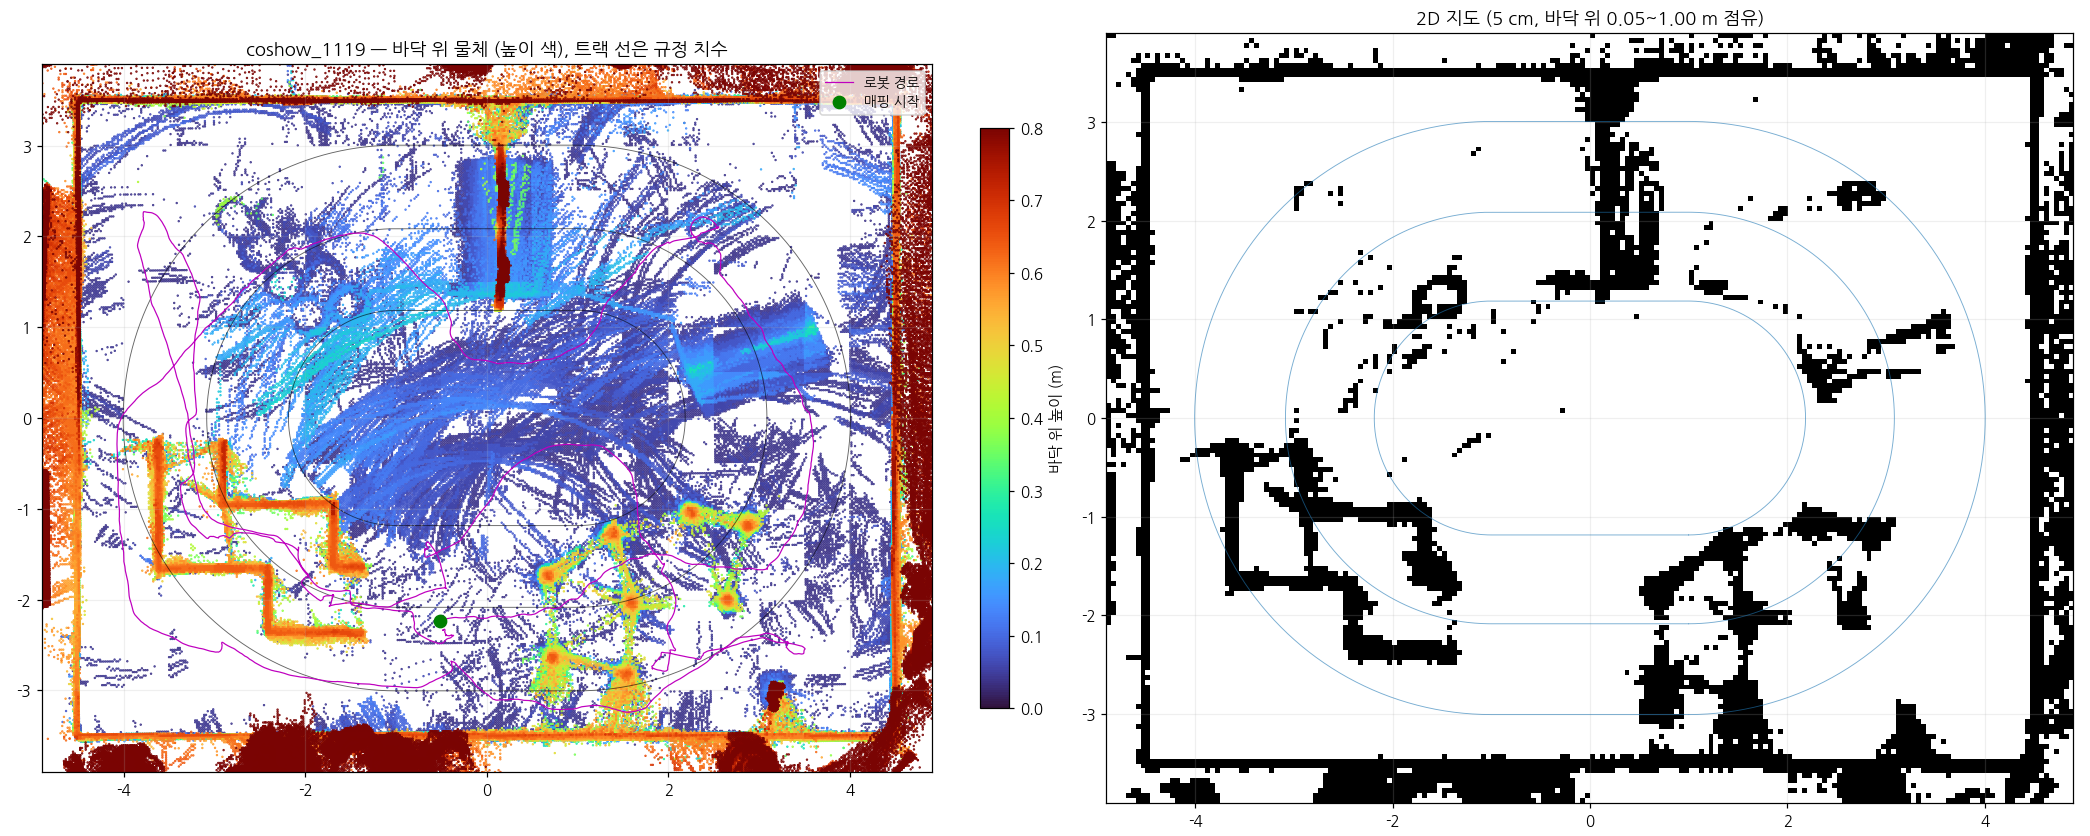
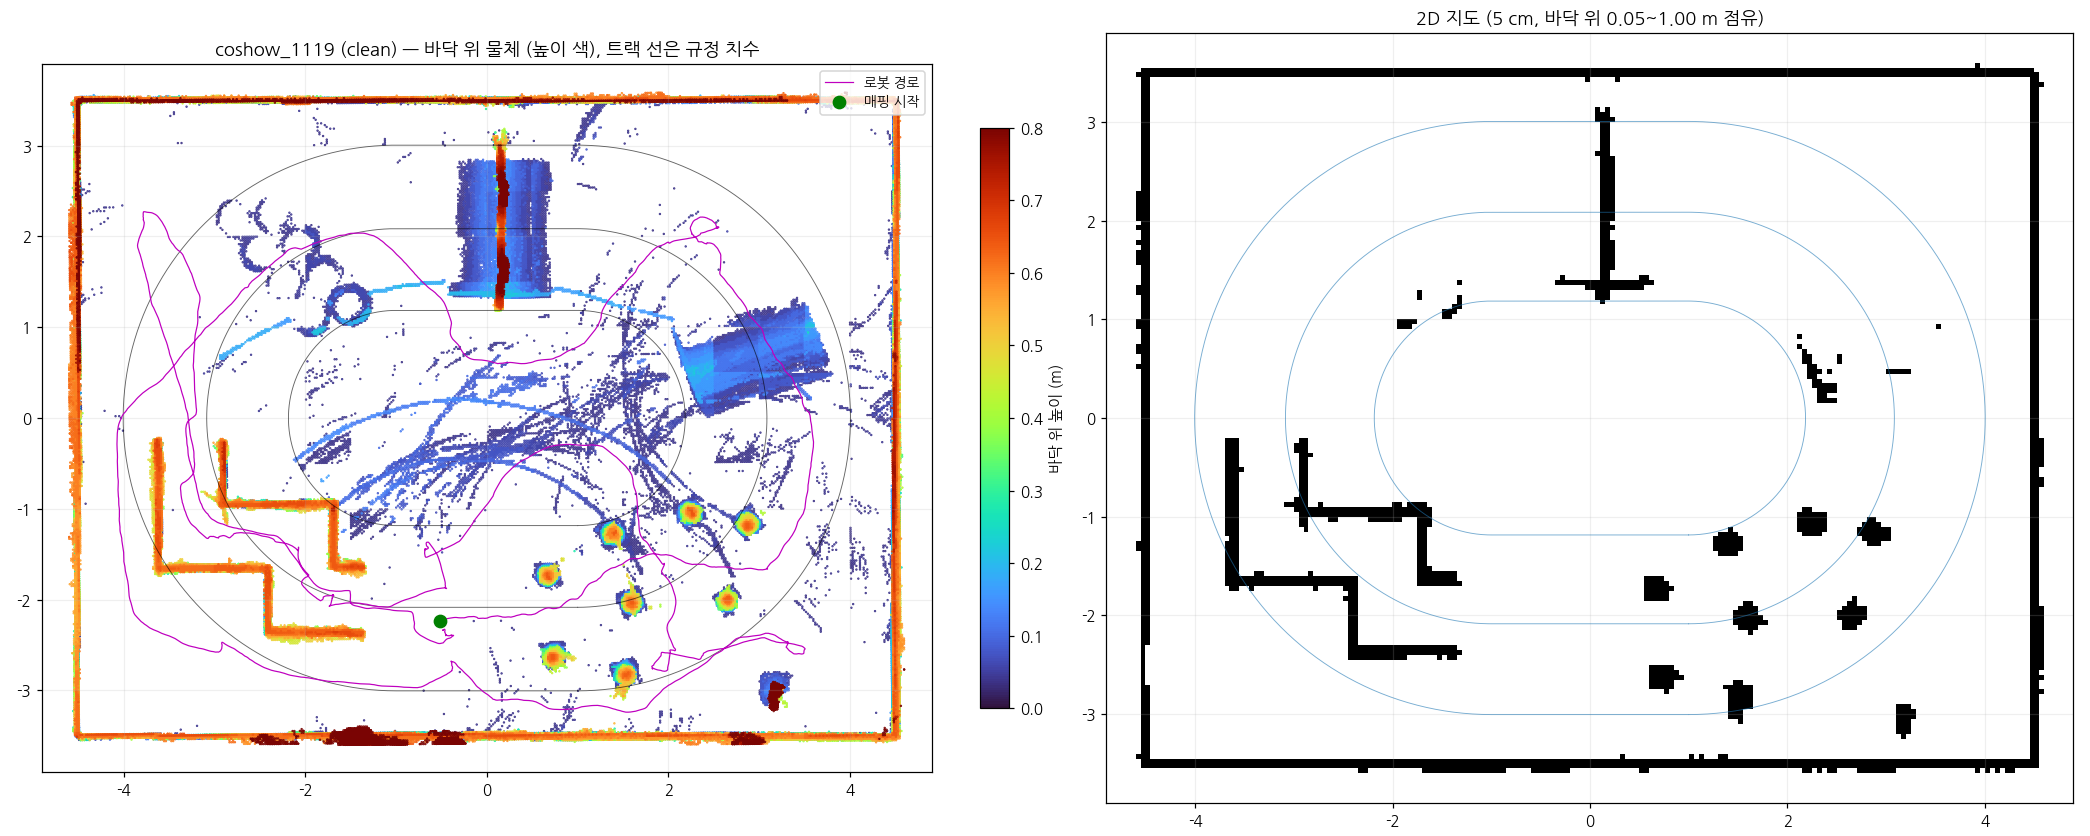
feat(map): 정리본 지도(map_clean) + RViz 보기 (scripts/view_map.sh)
노이즈 분해(coshow_1119): 벽 밖(관중·전시장) 56 %, 바닥 아래 허상 6.5 %, 3~25 cm 층 10 %(바닥 줄무늬 포함).
정리: 벽 안(+10 cm)·바닥~1.2 m·3~25 cm 층은 6번 이상 잡힌 칸만·이웃 4개 미만 외톨이 삭제 -> 179만 중 47만.
2D 지도도 정리본에서 다시(점유 6489 -> 2211칸: 벽·통로·콘 8개·아치 기둥).
view_map.sh: 도메인 88 루프백, 점지도(높이 색)·2D·주행 경로·규정 트랙 선, RViz 닫으면 같이 꺼짐. MAP_RAW=1 이면 원본.

diff --git a/scripts/map_view.py b/scripts/map_view.py
@@ -1,0 +1,109 @@
+#!/usr/bin/env python3
+"""Publish a built map (scripts/map_build.py output) for RViz: point cloud (intensity = height above the floor),
+2D grid, the mapping drive and the rulebook track lines + wall, all latched in frame 'map' (= track frame).
+    python3 scripts/map_view.py maps/<name> [step=1]      (scripts/view_map.sh starts this and rviz2)
+"""
+import math
+import os
+import sys
+
+import numpy as np
+import rclpy
+from geometry_msgs.msg import Point, PoseStamped
+from nav_msgs.msg import OccupancyGrid, Path
+from rclpy.node import Node
+from rclpy.qos import DurabilityPolicy, QoSProfile, ReliabilityPolicy
+from sensor_msgs.msg import PointCloud2, PointField
+from std_msgs.msg import ColorRGBA, Header
+from visualization_msgs.msg import Marker, MarkerArray
+
+ROOT = os.path.normpath(os.path.join(os.path.dirname(os.path.abspath(__file__)), '..'))
+sys.path.insert(0, os.path.join(ROOT, 'src/mission/track_day1'))
+import track_spec as T  # noqa: E402
+
+
+def stadium(r, n=200):
+    L = T.STRAIGHT / 2
+    a = np.linspace(-math.pi / 2, math.pi / 2, n)
+    return np.vstack([np.column_stack([L + r * np.cos(a), r * np.sin(a)]),
+                      np.column_stack([-L - r * np.cos(a), -r * np.sin(a)]), [[L, -r]]])
+
+
+class MapView(Node):
+    def __init__(self, d, step):
+        super().__init__('map_view')
+        q = QoSProfile(depth=1, reliability=ReliabilityPolicy.RELIABLE, durability=DurabilityPolicy.TRANSIENT_LOCAL)
+        hdr = Header(frame_id='map')
+        hdr.stamp = self.get_clock().now().to_msg()
+        src = 'map_clean.npz' if os.path.exists(os.path.join(d, 'map_clean.npz')) and os.environ.get('MAP_RAW') != '1' else 'map_track.npz'
+        z = np.load(os.path.join(d, src))
+        self.get_logger().info('point cloud: %s (MAP_RAW=1 for everything)' % src)
+        xyz, h = z['xyz'][::step].astype(np.float32), z['height'][::step].astype(np.float32)
+        pc = PointCloud2(header=hdr, height=1, width=len(xyz), is_bigendian=False, point_step=16, is_dense=True,
+                         fields=[PointField(name=n, offset=4 * i, datatype=PointField.FLOAT32, count=1)
+                                 for i, n in enumerate(('x', 'y', 'z', 'intensity'))])
+        pc.row_step = 16 * len(xyz)
+        pc.data = np.column_stack([xyz, h]).astype(np.float32).tobytes()
+        self.create_publisher(PointCloud2, '/map_cloud', q).publish(pc)
+
+        # 2D grid from map.pgm / map.yaml
+        y = {}
+        for line in open(os.path.join(d, 'map.yaml')):
+            if ':' in line and not line.startswith('#'):
+                k, v = line.split(':', 1)
+                y[k.strip()] = v.split('#')[0].strip()
+        res = float(y['resolution'])
+        org = [float(v) for v in y['origin'].strip('[]').split(',')]
+        raw = open(os.path.join(d, y['image']), 'rb').read()
+        parts = raw.split(b'\n', 3)
+        w, hh = map(int, parts[1].split())
+        img = np.frombuffer(parts[3], np.uint8).reshape(hh, w)[::-1]
+        grid = np.full(img.shape, -1, np.int8)
+        grid[img == 0] = 100
+        grid[img == 254] = 0
+        og = OccupancyGrid(header=hdr)
+        og.info.resolution, og.info.width, og.info.height = res, w, hh
+        og.info.origin.position.x, og.info.origin.position.y = org[0], org[1]
+        og.info.origin.orientation.w = 1.0
+        og.data = grid.reshape(-1).tolist()
+        self.create_publisher(OccupancyGrid, '/map', q).publish(og)
+
+        tr = z['traj']
+        path = Path(header=hdr)
+        for p in tr[::5]:
+            ps = PoseStamped(header=hdr)
+            ps.pose.position.x, ps.pose.position.y, ps.pose.position.z = float(p[0]), float(p[1]), float(p[2])
+            ps.pose.orientation.w = 1.0
+            path.poses.append(ps)
+        self.create_publisher(Path, '/map_traj', q).publish(path)
+
+        ma = MarkerArray()
+        lines = [(stadium(T.R_OUTER), (1.0, 1.0, 1.0)), (stadium(T.R_LANE12), (1.0, 1.0, 1.0)),
+                 (stadium(T.R_INFIELD), (1.0, 0.85, 0.2))]
+        hx, hy = T.WALL_LX / 2, T.WALL_LY / 2
+        lines.append((np.array([[-hx, -hy], [hx, -hy], [hx, hy], [-hx, hy], [-hx, -hy]]), (0.6, 0.6, 0.6)))
+        for i, (pts, c) in enumerate(lines):
+            m = Marker(header=hdr, ns='track', id=i, type=Marker.LINE_STRIP, action=Marker.ADD)
+            m.scale.x = 0.02
+            m.color = ColorRGBA(r=c[0], g=c[1], b=c[2], a=0.9)
+            m.pose.orientation.w = 1.0
+            m.points = [Point(x=float(a), y=float(b), z=0.005) for a, b in pts]
+            ma.markers.append(m)
+        self.create_publisher(MarkerArray, '/map_track_lines', q).publish(ma)
+        self.get_logger().info('published %s: %d points (step %d), grid %dx%d, drive %d poses — close RViz to quit'
+                               % (os.path.basename(d.rstrip('/')), len(xyz), step, w, hh, len(path.poses)))
+
+
+def main():
+    d = sys.argv[1]
+    kv = dict(a.split('=') for a in sys.argv[2:])
+    rclpy.init()
+    n = MapView(d, int(kv.get('step', 1)))
+    try:
+        rclpy.spin(n)
+    except KeyboardInterrupt:
+        pass
+
+
+if __name__ == '__main__':
+    main()

diff --git a/scripts/map_build.py b/scripts/map_build.py
@@ -9,6 +9,7 @@
      points 0.05..1.0 m above the local floor standing >= 0.10 m tall in the cell), map_top.png, report.txt
     python3 scripts/map_build.py <lio bag dir> <original bag dir> <out dir>
     python3 scripts/map_build.py --regrid <out dir>      # only the 2D grid and picture again, from map_track.npz
+    python3 scripts/map_build.py --clean <out dir>       # arena-only cleaned map_clean.npz/pcd (+ grid, picture)
 """
 import math
 import os
@@ -142,6 +143,58 @@ def write_grid(out, occupied, seen, x0, y0):
                 % (GRID, x0, y0))
 
 
+def clean(M, hz, cnt, margin=0.10, zmax=1.2, low=(0.03, 0.25), low_count=6, base_count=3, min_nb=4):
+    """Arena-only map: inside the wall (+margin), floor..zmax, the 3-25 cm layer only where seen >= low_count times
+    (floor streaks from pitch lag are seen by few scans; ramps, tyres and cone bases by many), then voxels with fewer
+    than min_nb of their 26 neighbours dropped (lone specks). Returns the kept mask."""
+    hx, hy = T.WALL_LX / 2 + margin, T.WALL_LY / 2 + margin
+    keep = (np.abs(M[:, 0]) < hx) & (np.abs(M[:, 1]) < hy) & (hz > -0.03) & (hz < zmax) & (cnt >= base_count)
+    lay = (hz >= low[0]) & (hz < low[1])
+    keep &= ~lay | (cnt >= low_count)
+    idx = np.nonzero(keep)[0]
+    g = np.floor(M[idx] / VOX).astype(np.int64) + 2 ** 20
+    key = (g[:, 0] << 42) | (g[:, 1] << 21) | g[:, 2]
+    ks = np.sort(key)
+    nb = np.zeros(len(idx), int)
+    for dx in (-1, 0, 1):
+        for dy in (-1, 0, 1):
+            for dz in (-1, 0, 1):
+                if dx == dy == dz == 0:
+                    continue
+                q = key + (dx << 42) + (dy << 21) + dz
+                pos = np.searchsorted(ks, q)
+                pos[pos >= len(ks)] = len(ks) - 1
+                nb += ks[pos] == q
+    keep[idx[nb < min_nb]] = False
+    return keep
+
+
+def write_pcd(path, M, val):
+    with open(path, 'wb') as f:
+        f.write(('# .PCD v0.7\nVERSION 0.7\nFIELDS x y z intensity\nSIZE 4 4 4 4\nTYPE F F F F\nCOUNT 1 1 1 1\n'
+                 'WIDTH %d\nHEIGHT 1\nVIEWPOINT 0 0 0 1 0 0 0\nPOINTS %d\nDATA binary\n' % (len(M), len(M))).encode())
+        f.write(np.column_stack([M, val]).astype(np.float32).tobytes())
+
+
+def clean_map(out):
+    """map_track.npz -> map_clean.npz / map_clean.pcd (intensity = height above floor) + 2D grid from the clean points."""
+    d = np.load(os.path.join(out, 'map_track.npz'))
+    M, hz, cnt, traj = d['xyz'].astype(np.float64), d['height'].astype(np.float64), d['count'], d['traj']
+    k = clean(M, hz, cnt)
+    np.savez_compressed(os.path.join(out, 'map_clean.npz'), xyz=M[k].astype(np.float32), height=hz[k].astype(np.float32),
+                        count=cnt[k].astype(np.int32), traj=traj)
+    write_pcd(os.path.join(out, 'map_clean.pcd'), M[k], hz[k])
+    occupied, seen, x0, y0, info = make_grid(M[k], hz[k])
+    write_grid(out, occupied, seen, x0, y0)
+    picture(os.path.join(out, 'map_top.png'), M[k], hz[k], traj, occupied, x0, y0, os.path.basename(out.rstrip('/')) + ' (clean)')
+    msg = 'clean: kept %d of %d voxels (inside the wall, floor..1.2 m, 3-25 cm layer seen >= 6x, lone specks dropped)' % (k.sum(), len(k))
+    lines = [l for l in open(os.path.join(out, 'report.txt')).read().splitlines() if not l.startswith(('grid ', 'clean:'))]
+    with open(os.path.join(out, 'report.txt'), 'w') as f:
+        f.write('\n'.join(lines + [msg, info]) + '\n')
+    print(msg)
+    print(info)
+
+
 def regrid(out):
     """Rebuild map.pgm/map.yaml/map_top.png from map_track.npz (no replay)."""
     d = np.load(os.path.join(out, 'map_track.npz'))
@@ -238,6 +291,7 @@ def main():
     with open(os.path.join(out, 'report.txt'), 'w') as f:
         f.write('\n'.join(rep) + '\n')
     print('\n'.join(rep))
+    clean_map(out)
     print('-> %s' % out)
 
 
@@ -281,5 +335,7 @@ def picture(path, M, hz, traj, occupied, x0, y0, name):
 if __name__ == '__main__':
     if len(sys.argv) == 3 and sys.argv[1] == '--regrid':
         regrid(sys.argv[2])
+    elif len(sys.argv) == 3 and sys.argv[1] == '--clean':
+        clean_map(sys.argv[2])
     else:
         main()
